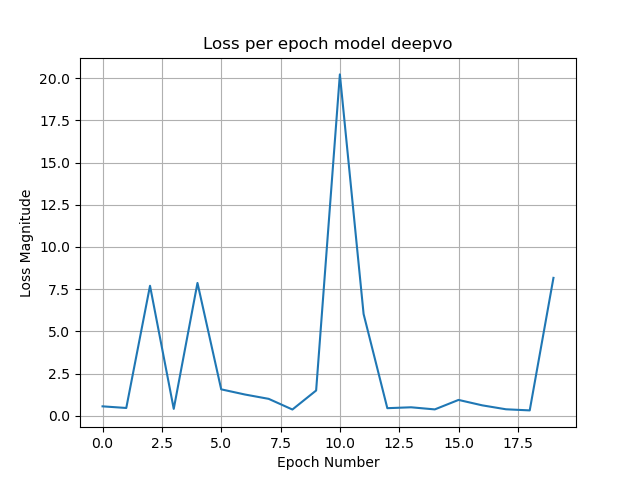
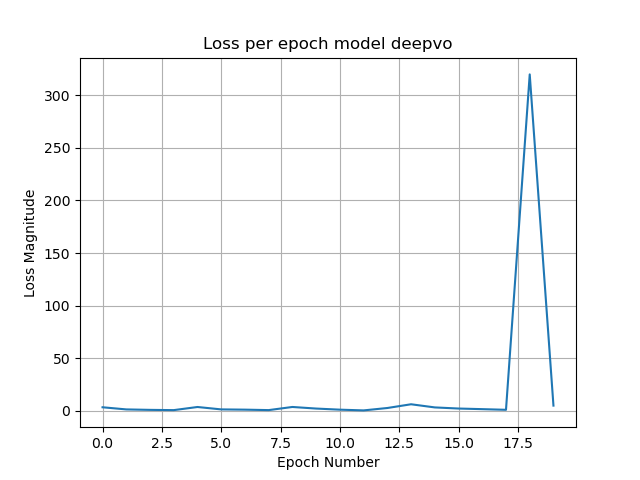
Delete flownet checkpoint

diff --git a/main.py b/main.py
@@ -6,10 +6,11 @@ __email__ = 'eduardotayupanta@outlook.com'
 """
 
 # Import Libraries:
+import cv2
 from DeepVO.deepvo_net import DeepVONet
-from FlowNet.flownet_s_net import FlowNet
 from MagicVO.magicvo_net import MagicVONet
 import matplotlib.pyplot as plt
+import numpy as np
 import tensorflow as tf
 from utils.dataset import VisualOdometryDataLoader
 
@@ -31,28 +32,26 @@ def run_optimization(model, x, y, k, criterion, optimizer):
     # Variables to update, i.e. trainable variables.
     trainable_variables = model.trainable_variables
 
-    # Compute gradients.
-    gradients = g.gradient(loss, trainable_variables)
+    with tf.device('/cpu:0'):
+        # Compute gradients.
+        gradients = g.gradient(loss, trainable_variables)
 
     # Update W and b following gradients.
     optimizer.apply_gradients(zip(gradients, trainable_variables))
 
 
-def train_model(dataset, flownet, model, config, criterion, optimizer, epoch):
+def train_model(dataset, model, config, criterion, optimizer, epoch):
     loss = 0.0
-    for step, (batch_x, batch_y) in enumerate(dataset.dataset):
-        with tf.device('/gpu:0'):
-            flow = flownet(batch_x)
-        with tf.device('/cpu:0'):
-            run_optimization(
-                model,
-                flow,
-                batch_y,
-                config['k'],
-                criterion,
-                optimizer)
+    for step, (batch_x, batch_y) in enumerate(dataset):
+        run_optimization(
+            model,
+            batch_x,
+            batch_y,
+            config['k'],
+            criterion,
+            optimizer)
 
-            pred = model(flow)
+        pred = model(batch_x)
 
         loss = custom_loss(
             pred,
@@ -65,7 +64,7 @@ def train_model(dataset, flownet, model, config, criterion, optimizer, epoch):
     return loss
 
 
-def train(flownet, model, config):
+def train(model, config):
     print('Load Data...')
     dataset = VisualOdometryDataLoader(
         config['datapath'], 384, 1280, config['bsize'])
@@ -86,8 +85,7 @@ def train(flownet, model, config):
     total_loss = []
     for epoch in range(1, config['train_iter'] + 1):
         loss = train_model(
-            dataset,
-            flownet,
+            dataset.dataset,
             model,
             config,
             criterion,
@@ -110,8 +108,84 @@ def train(flownet, model, config):
     plt.show()
 
 
-def test(flownet, model, config):
-    print(path)
+def decode_img(img):
+    dim = (1280, 384)
+    image = cv2.resize(img, dim, interpolation=cv2.INTER_AREA)
+    image = image.astype('float32')
+    return image
+
+
+def get_input(paths):
+    print(paths)
+    img1 = cv2.imread(paths[0])
+    img2 = cv2.imread(paths[1])
+    img1 = decode_img(img1)
+    img2 = decode_img(img2)
+    return np.concatenate((img1, img2), axis=-1)
+
+
+def test(model, config):
+    print('Load Data...')
+    dataset = VisualOdometryDataLoader(
+        config['datapath'], 384, 1280, config['bsize'], True)
+
+    model.load_weights(config['checkpoint_path'] +
+                       '/' + config['train'] + '/cp.ckpt')
+
+    images_stacked, odometries = dataset.images_stacked, dataset.odometries
+    x, x_pred = 0.0, 0.0
+    y, y_pred = 0.0, 0.0
+    z, z_pred = 0.0, 0.0
+
+    X, X_pred = [], []
+    Y, Y_pred = [], []
+    Z, Z_pred = [], []
+
+    X.append(x)
+    X_pred.append(x_pred)
+
+    Y.append(y)
+    Y_pred.append(y_pred)
+
+    Z.append(z)
+    Z_pred.append(z_pred)
+
+    for index in range(len(odometries)):
+        input_img = get_input(images_stacked[index])
+        pred = model(np.array([input_img])).numpy()[0]
+            
+        x += odometries[index][0]
+        x_pred += pred[0]
+
+        y += odometries[index][1]
+        y_pred += pred[1]
+
+        z += odometries[index][2]
+        z_pred += pred[2]
+
+        X.append(x)
+        X_pred.append(x_pred)
+        Y.append(y)
+        Y_pred.append(y_pred)
+        Z.append(z)
+        Z_pred.append(z_pred)
+
+    print('Plot trajectory...')
+    fig, ax = plt.subplots()
+    ax.plot(X, Y)
+    ax.plot(X_pred, Y_pred)
+    ax.set(xlabel='Distance', ylabel='Distance',
+           title='Comparison ' + config['train'])
+    ax.grid()
+    plt.show()
+
+    # input_img = get_input(images_stacked[0])
+    # pred = model(np.array([input_img])).numpy()[0]
+    # print(odometries[0], pred)
+    # print(odometries[0], pred[0])
+    # print(odometries[0], pred.numpy()[0])
+    # print(odometries[0], pred.numpy()[1])
+    # print(odometries[0], pred.numpy()[2])
 
 
 def main():
@@ -124,7 +198,7 @@ def main():
             print(e)
 
     config = {
-        'mode': 'train',
+        'mode': 'test',
         'datapath': 'D:\EduardoTayupanta\Documents\Librerias\dataset',
         'bsize': 8,
         'lr': 0.001,
@@ -132,23 +206,22 @@ def main():
         'train_iter': 20,
         'checkpoint_path': './checkpoints',
         'k': 100,
-        'train': 'magicvo'
+        'train': 'deepvo'
     }
 
     deepvonet = DeepVONet()
-    flownet = FlowNet()
     magicvonet = MagicVONet()
 
     if config['mode'] == 'train':
         if config['train'] == 'deepvo':
-            train(flownet, deepvonet, config)
+            train(deepvonet, config)
         elif config['train'] == 'magicvo':
-            train(flownet, magicvonet, config)
+            train(magicvonet, config)
     elif config['mode'] == 'test':
         if config['train'] == 'deepvo':
-            test(flownet, deepvonet, config)
+            test(deepvonet, config)
         elif config['train'] == 'magicvo':
-            test(flownet, magicvonet, config)
+            test(magicvonet, config)
 
 
 if __name__ == "__main__":

diff --git a/DeepVO/deepvo_net.py b/DeepVO/deepvo_net.py
@@ -14,12 +14,44 @@ from tensorflow.keras import layers
 class DeepVONet(keras.Model):
     def __init__(self):
         super(DeepVONet, self).__init__()
+        self.conv1 = layers.Conv2D(64, kernel_size=7, strides=2,
+                                   padding='same', activation=tf.nn.relu)
+        self.conv2 = layers.Conv2D(128, kernel_size=5, strides=2,
+                                   padding='same', activation=tf.nn.relu)
+        self.conv3 = layers.Conv2D(256, kernel_size=5, strides=2,
+                                   padding='same', activation=tf.nn.relu)
+        self.conv3_1 = layers.Conv2D(256, kernel_size=3, strides=1,
+                                     padding='same', activation=tf.nn.relu)
+        self.conv4 = layers.Conv2D(512, kernel_size=3, strides=2,
+                                   padding='same', activation=tf.nn.relu)
+        self.conv4_1 = layers.Conv2D(512, kernel_size=3, strides=1,
+                                     padding='same', activation=tf.nn.relu)
+        self.conv5 = layers.Conv2D(512, kernel_size=3, strides=2,
+                                   padding='same', activation=tf.nn.relu)
+        self.conv5_1 = layers.Conv2D(512, kernel_size=3, strides=1,
+                                     padding='same', activation=tf.nn.relu)
+        self.conv6 = layers.Conv2D(1024, kernel_size=3, strides=2,
+                                   padding='same', activation=tf.nn.relu)
+        self.reshape = keras.layers.Reshape((-1, 20 * 6 * 1024))
+
         rnn_cells = [layers.LSTMCell(1000) for _ in range(2)]
         stacked_lstm = layers.StackedRNNCells(rnn_cells)
         self.lstm_layer = layers.RNN(stacked_lstm)
+
         self.out = layers.Dense(6)
 
     def call(self, inputs, **kwargs):
-        x = self.lstm_layer(inputs)
-        x = self.out(x)
+        x = self.conv1(inputs)
+        x = self.conv2(x)
+        x = self.conv3(x)
+        x = self.conv3_1(x)
+        x = self.conv4(x)
+        x = self.conv4_1(x)
+        x = self.conv5(x)
+        x = self.conv5_1(x)
+        x = self.conv6(x)
+        x = self.reshape(x)
+        with tf.device('/cpu:0'):
+            x = self.lstm_layer(x)
+            x = self.out(x)
         return x

diff --git a/utils/dataset.py b/utils/dataset.py
@@ -31,17 +31,20 @@ class VisualOdometryDataLoader:
 
         images_stacked, odometries = self.get_data()
 
-        dataset = tf.data.Dataset.from_tensor_slices((images_stacked, odometries))
-        dataset = dataset.shuffle(len(images_stacked))
-        dataset = dataset.map(self.load_image, num_parallel_calls=tf.data.experimental.AUTOTUNE)
-        dataset = dataset.batch(batch_size)
-        dataset = dataset.prefetch(tf.data.experimental.AUTOTUNE)
+        if test:
+            self.images_stacked = images_stacked
+            self.odometries = odometries
+        else:
+            dataset = tf.data.Dataset.from_tensor_slices((images_stacked, odometries))
+            dataset = dataset.shuffle(len(images_stacked))
+            dataset = dataset.map(self.load_image, num_parallel_calls=tf.data.experimental.AUTOTUNE)
+            dataset = dataset.batch(batch_size)
+            dataset = dataset.prefetch(tf.data.experimental.AUTOTUNE)
 
-        self.dataset = dataset
+            self.dataset = dataset
 
     def decode_img(self, img):
         image = tf.image.decode_png(img, channels=3)
-        image = image[..., ::-1]
         image = tf.image.convert_image_dtype(image, tf.float32)
         image = tf.image.resize(image, [self.height, self.width])
         return image
